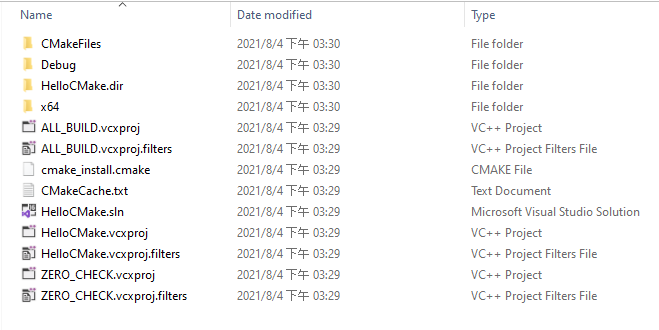
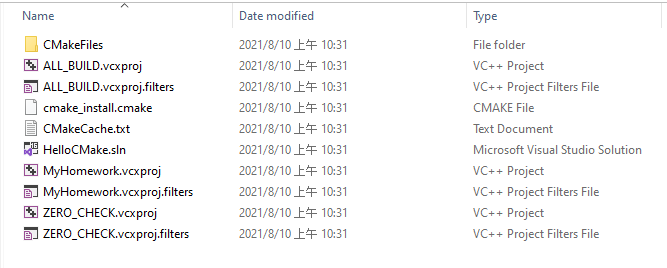
Add cmake basics

diff --git a/content/posts/2021-08-10-cmake-basics.md b/content/posts/2021-08-10-cmake-basics.md
@@ -1,0 +1,163 @@
+---
+date: 2021-08-10
+title: "CMake：快速上手跨平台 C++ 專案建置"
+tags: [CMake, C++]
+isCJKLanguage: true
+draft: false
+---
+
+本篇文章是我學習 CMake 的心得。
+
+## 為什麼需要 CMake?
+
+簡單講，C++ 語言本身雖然跨平台。但是編譯 C++ 的工具鏈卻不跨平台。
+
+像 Linux Makefile 和 Windows Visual Studio 互不相通，即使撰寫了完全平台獨立的 C++ 程式碼，想在 Linux 上編譯 Windows 專案往往相當困難。
+
+針對這個問題，除了同時維護兩個專案之外，還可以考慮 CMake 這類跨平台工具。
+
+藉由 CMake ，我們可以寫一份完全中立、跟平台無關的專案腳本，編譯時才轉換成當前平台的工具鏈。比如當我想在 Windows 平台上編譯時，CMake 就為我產生一個 Visual Studio 專案。同理，當我需要在 macOS 上編譯時，就產生 Xcode 專案。接著就能用本機工具鏈編譯專案了。
+
+我個人的主力工作平台是 Win10+VS2017，副平台是 iOS+Xcode，偶爾需要跑一下 Linux。CMake 可以節省我的時間精力，避開每個平台都需再學習一次建構系統的成本。
+
+## Hello CMake!
+
+馬上開始第一個 CMake 專案。
+
+首先在專案目錄下添加兩個檔案：`CMakeLists.txt`、`main.cpp`。
+
+CMake 規定，專案腳本的入口一定叫做 `CMakeLists.txt`，是個純文字檔。不用說 `main.cpp` 就是 C++ 原始碼。
+
+給 `CMakeLists.txt` 添加內容：
+```cmake
+cmake_minimum_required(VERSION 3.10) # 設定最低版本要求
+project(HelloCMake)                  # 專案名稱
+add_executable(MyHomework main.cpp)  # 執行檔名叫 MyApp，原始碼 main.cpp
+```
+三行即可完成一個最簡單的 CMake 專案。目標是編譯原始碼 main.cpp 並產出可執行檔 MyHomework.exe。
+
+CMake 有自己的腳本語法，`cmake_minimum_required()` 等等這些是內建的功能函數。
+
+## 實際編譯專案
+
+再來，該怎麼編譯專案呢?
+
+我們剛剛提過 CMake 的轉換超能力，請用以下指令，把 CMake 腳本轉換成真正可編譯的專案：
+
+```bash
+mkdir build   # 建立名為 build 子目錄
+cd build      # 進入子目錄
+cmake ..      # 讀取 CMakeLists.txt 並生成本機專案
+```
+
+我的開發環境是 Windows 10 + Visual Studio 2019 的組合，所以 CMake 產生了 VS2019 專案。
+
+看一眼 build 子目錄裡的 VS2019 專案：
+
+![CMake VS2019](/img/cmake-vs.png)
+
+我們給 `cmake` 的第一個參數是 `..`，也就是`CMakeLists.txt` 所在的路徑位置，經 CMake 解析腳本，便會在當前目錄產生本機專案檔。以本例來說，CMakeLists.txt 和原始碼位於 build 的上層目錄 (`..`)，而自動產生的 VS2019 檔案就在子目錄 `build` 內。
+
+這是 CMake 的慣例，將產生的檔案和原始專案區分開來，不污染原始專案。一旦該子目錄放進版控忽略清單後 (如 `.gitignore`) 就不會影響版控，相當方便。
+
+最後打指令 `cmake --build .` 編譯程式。(別忘了最後有個 `.`)
+
+當然，徑直打開 Visual Studio 或者任何對應的 IDE 也可以，不一定要透過 CMake 編譯。
+
+## CMakeLists.txt 範例
+
+接著是一個比較完整的 C++ 專案範例。包含標頭檔，原始檔，指定 C++11/14 版本標準，引用第三方程式庫的 include 路徑和 link 路徑，等等 C++ 常見的標準備配。應該足以應付大多數的簡單需求。
+```cmake
+cmake_minimum_required(VERSION 3.16)
+
+project(MyProject)          # 專案名稱
+set(CMAKE_CXX_STANDARD 11)  # 要求 C++11 標準
+
+add_executable(MyApp main.cpp work.cpp header.h pch.h)    # 執行檔和原始碼
+include_directories("C:/path/to/include")                 # 設定 include 目錄
+target_link_libraries(MyApp "C:/path/to/lib")             # 設定 lib 連結
+```
+
+注意 `include_directories()` 和 `target_link_libraries()` 要給絕對路徑，例子：
+
+```cmake
+include_directories("D:\freeglut\include")
+target_link_libraries(Target1 "D:\freeglut\lib\freeglut.lib)
+```
+
+## 指定 Debug/Release 編譯組態
+
+呼叫 `cmake --build` 編譯時，可搭配 `--config` 指定編譯組態
+```cmd
+cmake --build . --config Release
+cmake --build . --config Debug
+```
+
+共有四種預設組態： `Debug`、`Release`、`RelWithDebInfo`、`MinSizeRel`。
+
+## 指定編譯器
+
+本機上有多個編譯器可選的話，可在轉換步驟加 `-G` 指定工具鏈
+```cmd
+cmake -G "Visual Studio 16 2019" /path/to/source
+cmake -G "Visual Studio 15 2017" /path/to/source
+cmake -G "MinGW Makefiles"       /path/to/source
+cmake -G "Xcode"                 /path/to/source
+```
+
+參考連結：[編譯器列表](https://cmake.org/cmake/help/latest/manual/cmake-generators.7.html#manual:cmake-generators(7))
+
+## 指定 32/64-bits
+
+用 `-A` 指定架構
+```cmd
+cmake -G "Visual Studio 16 2019" -A Win32 /path/to/source
+cmake -G "Visual Studio 16 2019" -A x64   /path/to/source
+cmake -G "Visual Studio 16 2019" -A ARM   /path/to/source
+```
+
+## 視窗程式
+
+這是個簡單的 Win32 視窗程式範例：
+```cmake
+cmake_minimum_required(VERSION 3.16)
+
+project(MyWindowProject)    # 專案名字
+set(CMAKE_CXX_STANDARD 11)  # 指定 C++11 標準
+
+add_compile_definitions(UNICOD _UNICODE)  # 寬字元設定
+add_executable(MyWin32App WIN32 main.cpp work.cpp header.h pch.h) # 關鍵字 WIN32
+
+target_precompile_headers(MyWin32App PRIVATE pch.h) # 預編譯標頭檔
+```
+
+有些特別注意事項：
+- 用 `WIN32` 關鍵字指明是 win32 視窗程式，程式入口會從 `main()` 變成 `WinMain()`
+- 定義 `UNICODE` 和 `_UNICODE` 告訴 VC++ 怎麼處理寬字元
+- `target_precompile_headers()` 預編譯標頭檔 (可放 `#include<windows.h>` ) 
+
+## 編譯後複製資源 (如 shader)
+
+我自己寫 Diret3D 程式時，預期每次編譯後都複製 shaders 到執行檔目錄。以下 CMake 指令可以達成：
+
+```cmake
+add_custom_target(
+    copy_shader_files
+    ${CMAKE_COMMAND} -E copy ${CMAKE_SOURCE_DIR}/shaders.hlsl ${CMAKE_BINARY_DIR}
+)
+add_dependencies(Target1 copy_shader_files)
+```
+
+## 參考連結
+
+本篇文章的目的是以最少的步驟，快速開始第一個跨平台 C++ 專案編譯，並刻意忽略不必要的高級功能。
+
+進階請參考以下連結：
+
+- [CMake 官方教學](https://cmake.org/cmake/help/latest/guide/tutorial/)
+- [CLion Quick CMake tutorial](https://www.jetbrains.com/help/clion/quick-cmake-tutorial.html)
+- [An introduction to Modern CMake](https://cliutils.gitlab.io/modern-cmake/)
+- [Qt5 Projects with CMake](https://gist.github.com/Rod-Persky/e6b93e9ee31f9516261b)
+- [用CMake在建置時複製檔案到輸出執行檔的目錄 ][CopyShader]
+
+[CopyShader]: https://minecraftxwinp.github.io/2017/11/27/%E7%94%A8CMake%E5%9C%A8%E5%BB%BA%E7%BD%AE%E6%99%82%E8%A4%87%E8%A3%BD%E6%AA%94%E6%A1%88%E5%88%B0%E8%BC%B8%E5%87%BA%E5%9F%B7%E8%A1%8C%E6%AA%94%E7%9A%84%E7%9B%AE%E9%8C%84/
